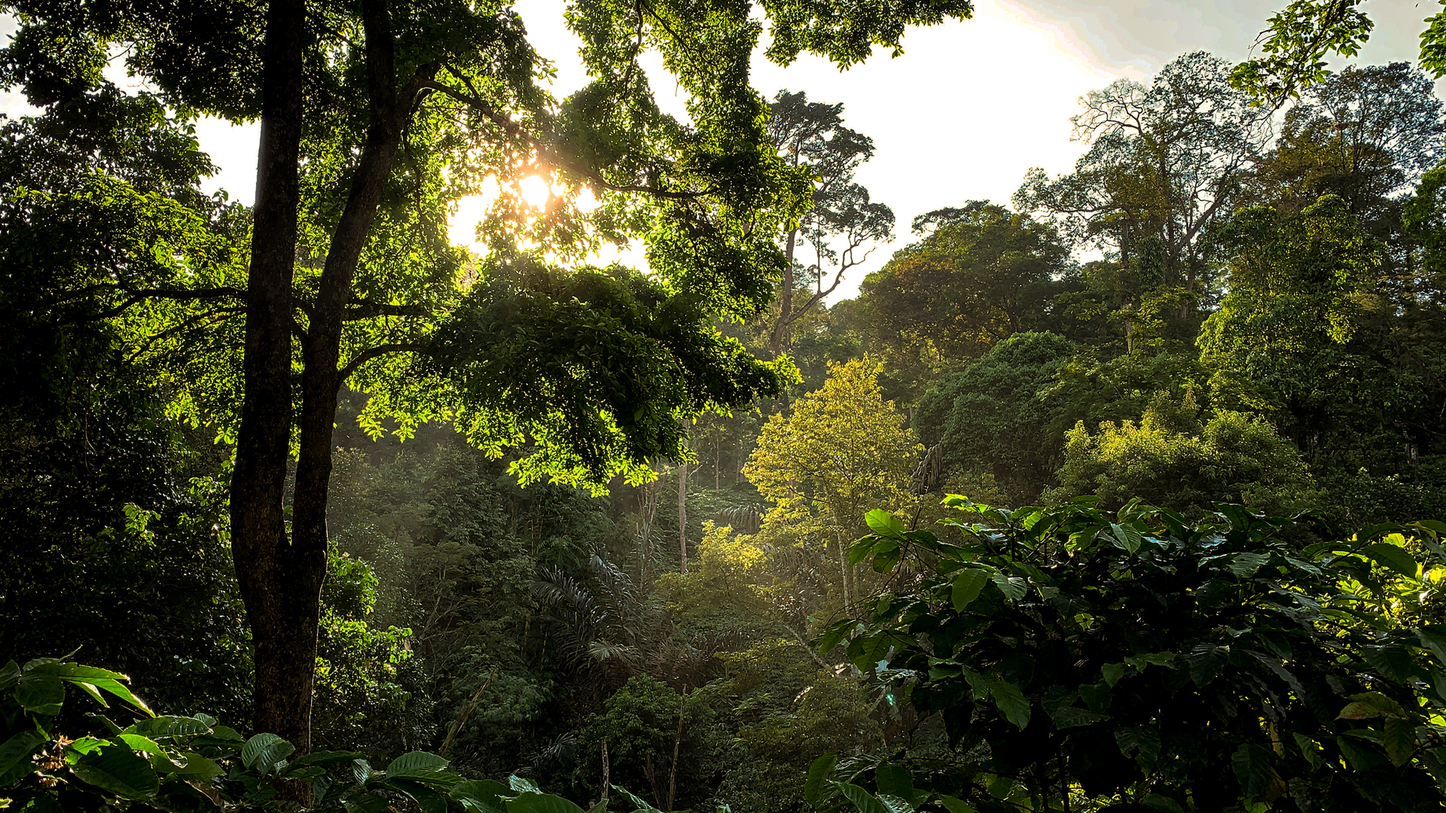
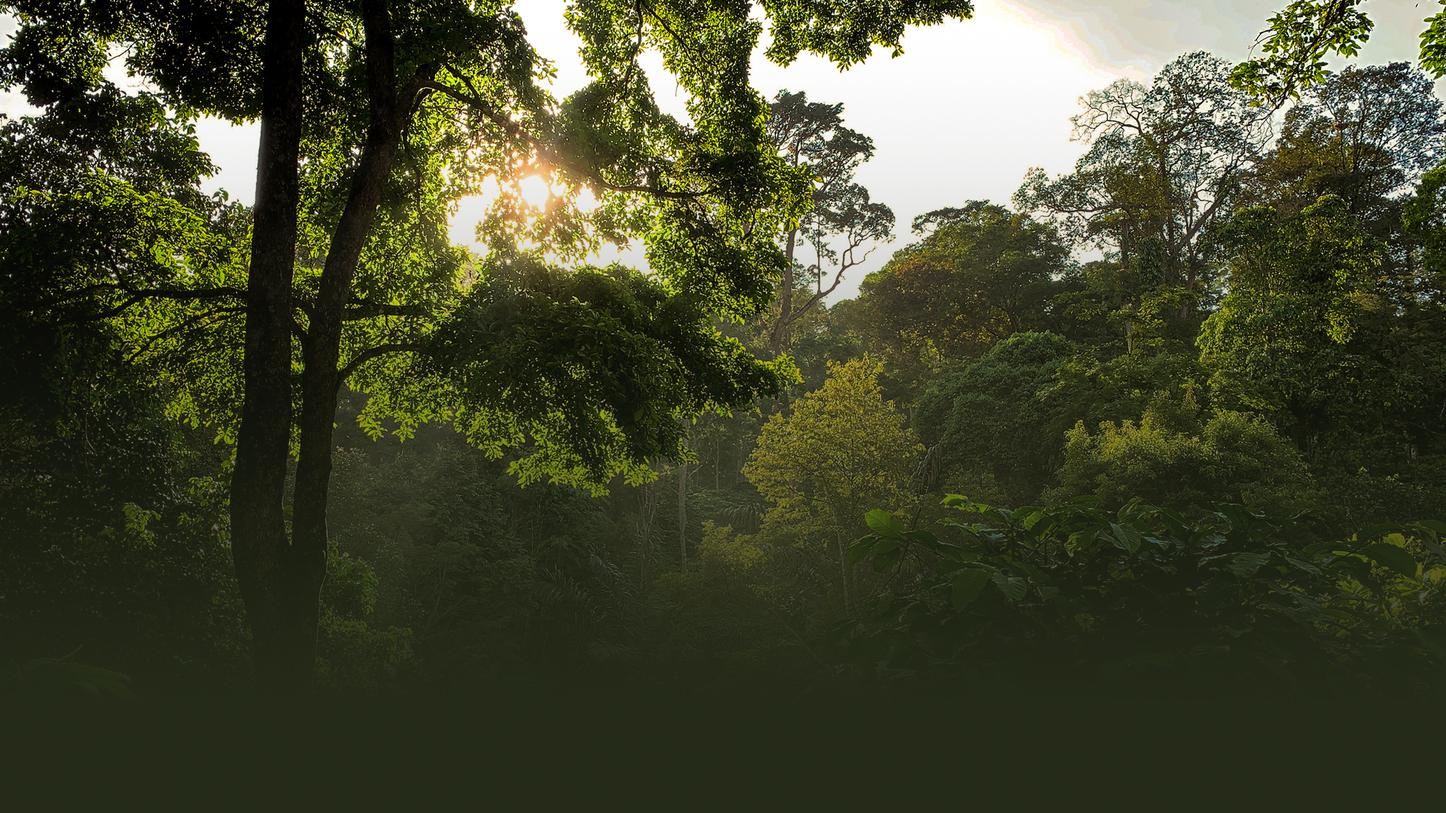
Add files via upload

diff --git a/index.html b/index.html
@@ -37,10 +37,16 @@
     section{height:100vh;padding:84px 72px;display:flex;align-items:center}
 
     /* HOME */
-    #home{background:url('assets/bg.jpg') center/cover no-repeat;flex-direction:column;justify-content:center}
-    #home h1{font-family: 'WWF', sans-serif; font-size:64px;line-height:1.02;margin-bottom:12px;opacity:0;transform:translateY(24px);animation:fadeInUp .9s ease forwards}
-    #home p{max-width:640px;font-size:15px;opacity:0;transform:translateY(24px);animation:fadeInUp .9s ease .35s forwards; margin-bottom: 24px;}
-    .explore-btn{display:inline-block; padding: 12px 28px; border: 2px solid var(--accent); color: var(--accent); text-decoration: none; border-radius: 8px; font-weight: 700; transition: all .3s; opacity:0; transform:translateY(24px); animation:fadeInUp .9s ease .6s forwards;}
+    #home{background:url('assets/bg.jpg') center/cover no-repeat; flex-direction:row; justify-content:space-between; align-items:flex-end; text-align:left;}
+    .home-content-left { max-width: 50%; }
+    #home h1{font-family: 'WWF', sans-serif; font-size:8.5vw; line-height:1; margin-bottom:20px; opacity:0; transform:translateY(24px); animation:fadeInUp .9s ease forwards; text-align: left;}
+    #home p{
+        font-family: 'WWF', sans-serif;
+        max-width:450px; font-size:22px; letter-spacing: 0.5px; line-height: 1.4; text-align: justify;
+        opacity:0; transform:translateY(24px); animation:fadeInUp .9s ease .35s forwards;
+        margin-bottom: 0;
+    }
+    .explore-btn{display:inline-block; padding: 18px 40px; font-size: 18px; border: 2px solid var(--accent); color: var(--accent); text-decoration: none; border-radius: 8px; font-weight: 700; transition: all .3s; opacity:0; transform:translateY(24px); animation:fadeInUp .9s ease .6s forwards;}
     .explore-btn:hover{background: var(--accent); color: var(--bg);}
     
     /* LOCATION */
@@ -49,7 +55,7 @@
     #location{background:linear-gradient(180deg, rgba(28,45,21,0.95) 0%, rgba(28,45,21,1) 100%);gap:40px;align-items:flex-start; padding-top: 120px; padding-bottom: 120px;}
     #location .text{flex:1; font-family: 'Raleway', sans-serif;}
     #location h1{font-family: 'WWF', sans-serif; font-size:54px;margin-bottom:8px;color:var(--accent)}
-    #location p{max-width:520px;color:var(--muted)}
+    #location p{max-width:520px;color:var(--muted); text-align: justify;}
     #location .map{flex:1;display:flex;align-items:center;justify-content:center}
     #location .map img{width:92%;border-radius:14px;box-shadow:0 18px 40px rgba(0,0,0,.55);cursor:zoom-in}
     #location.visible .map img{transform:scale(1);opacity:1}
@@ -132,15 +138,21 @@
   </nav>
 
   <section id="home">
-    <h1>KEMUNING FOREST <br> LIVING ATLAS</h1>
-    <p>Lorem ipsum dolor sit amet, consectetur adipiscing elit. Fusce egestas sollicitudin sem, a suscipit tellus dapibus nec. Fusce porta vestibulum velit et congue.</p>
+    <div class="home-content-left">
+        <h1>KEMUNING FOREST<br>LIVING ATLAS</h1>
+        <p>A living atlas of birds and mammals in a forest sustained by decades of coffee-based agroforestry.</p>
+    </div>
     <a href="explore.html" class="explore-btn">EXPLORE</a>
   </section>
 
   <section id="location" class="scroll-reveal">
     <div class="text">
       <h1 style="transition-delay: 0.1s;">KEMUNING FOREST</h1>
-      <p style="transition-delay: 0.2s;">Lorem ipsum dolor sit amet, consectetur adipiscing elit. Fusce egestas sollicitudin sem, a suscipit tellus dapibus nec. Fusce porta vestibulum velit et congue.</p>
+      <p style="transition-delay: 0.2s;">
+        Kemuning Forest is one of the last tropical lowland forests in Central Java, home to incredible biodiversity and a community-driven coffee agroforestry tradition that has thrived for years. Managed together by PERUM Perhutani and local villagers, the forest shows how conservation and livelihoods can grow side by side.
+        <br><br>
+        Since 2016, the Javan Wildlife Institute (JAWI) has worked closely with the people of Kemuning—leading research, protecting wildlife, and empowering communities to create sustainable forest-based products. More than just a forest, Kemuning is a living proof that humans, nature, and wildlife can thrive in harmony when we care for each other.
+      </p>
     </div>
     <div class="map">
       <img src="assets/map.png" alt="Kemuning Forest Map" class="animate-on-scroll" style="transition-delay: 0.3s;">
